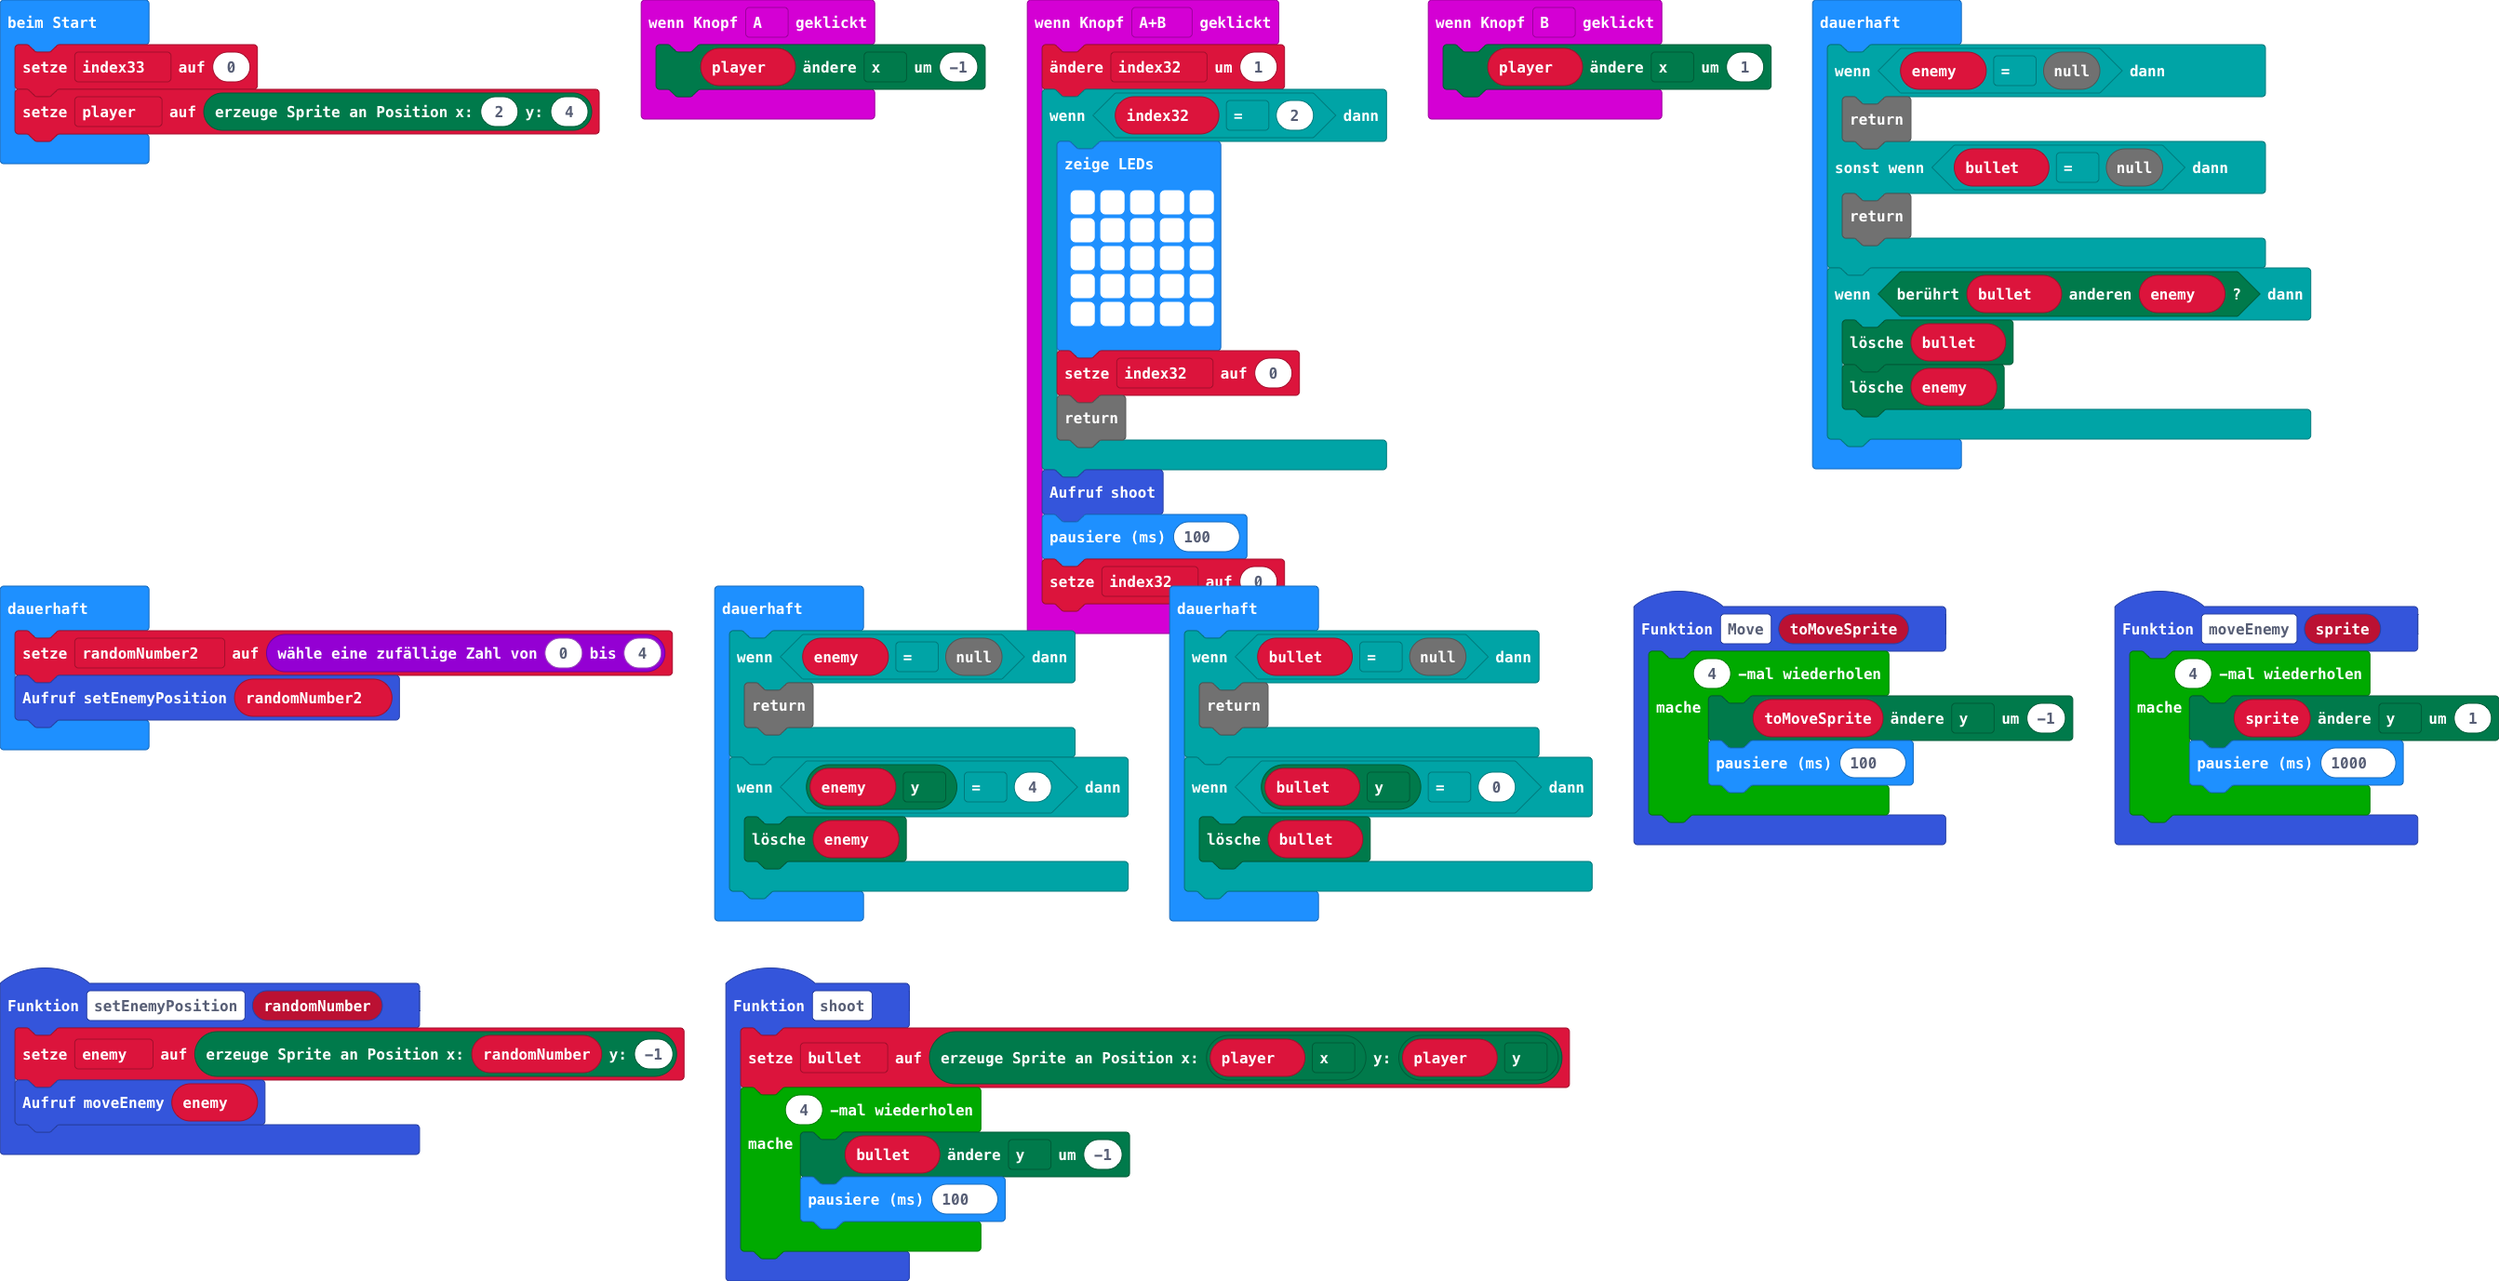
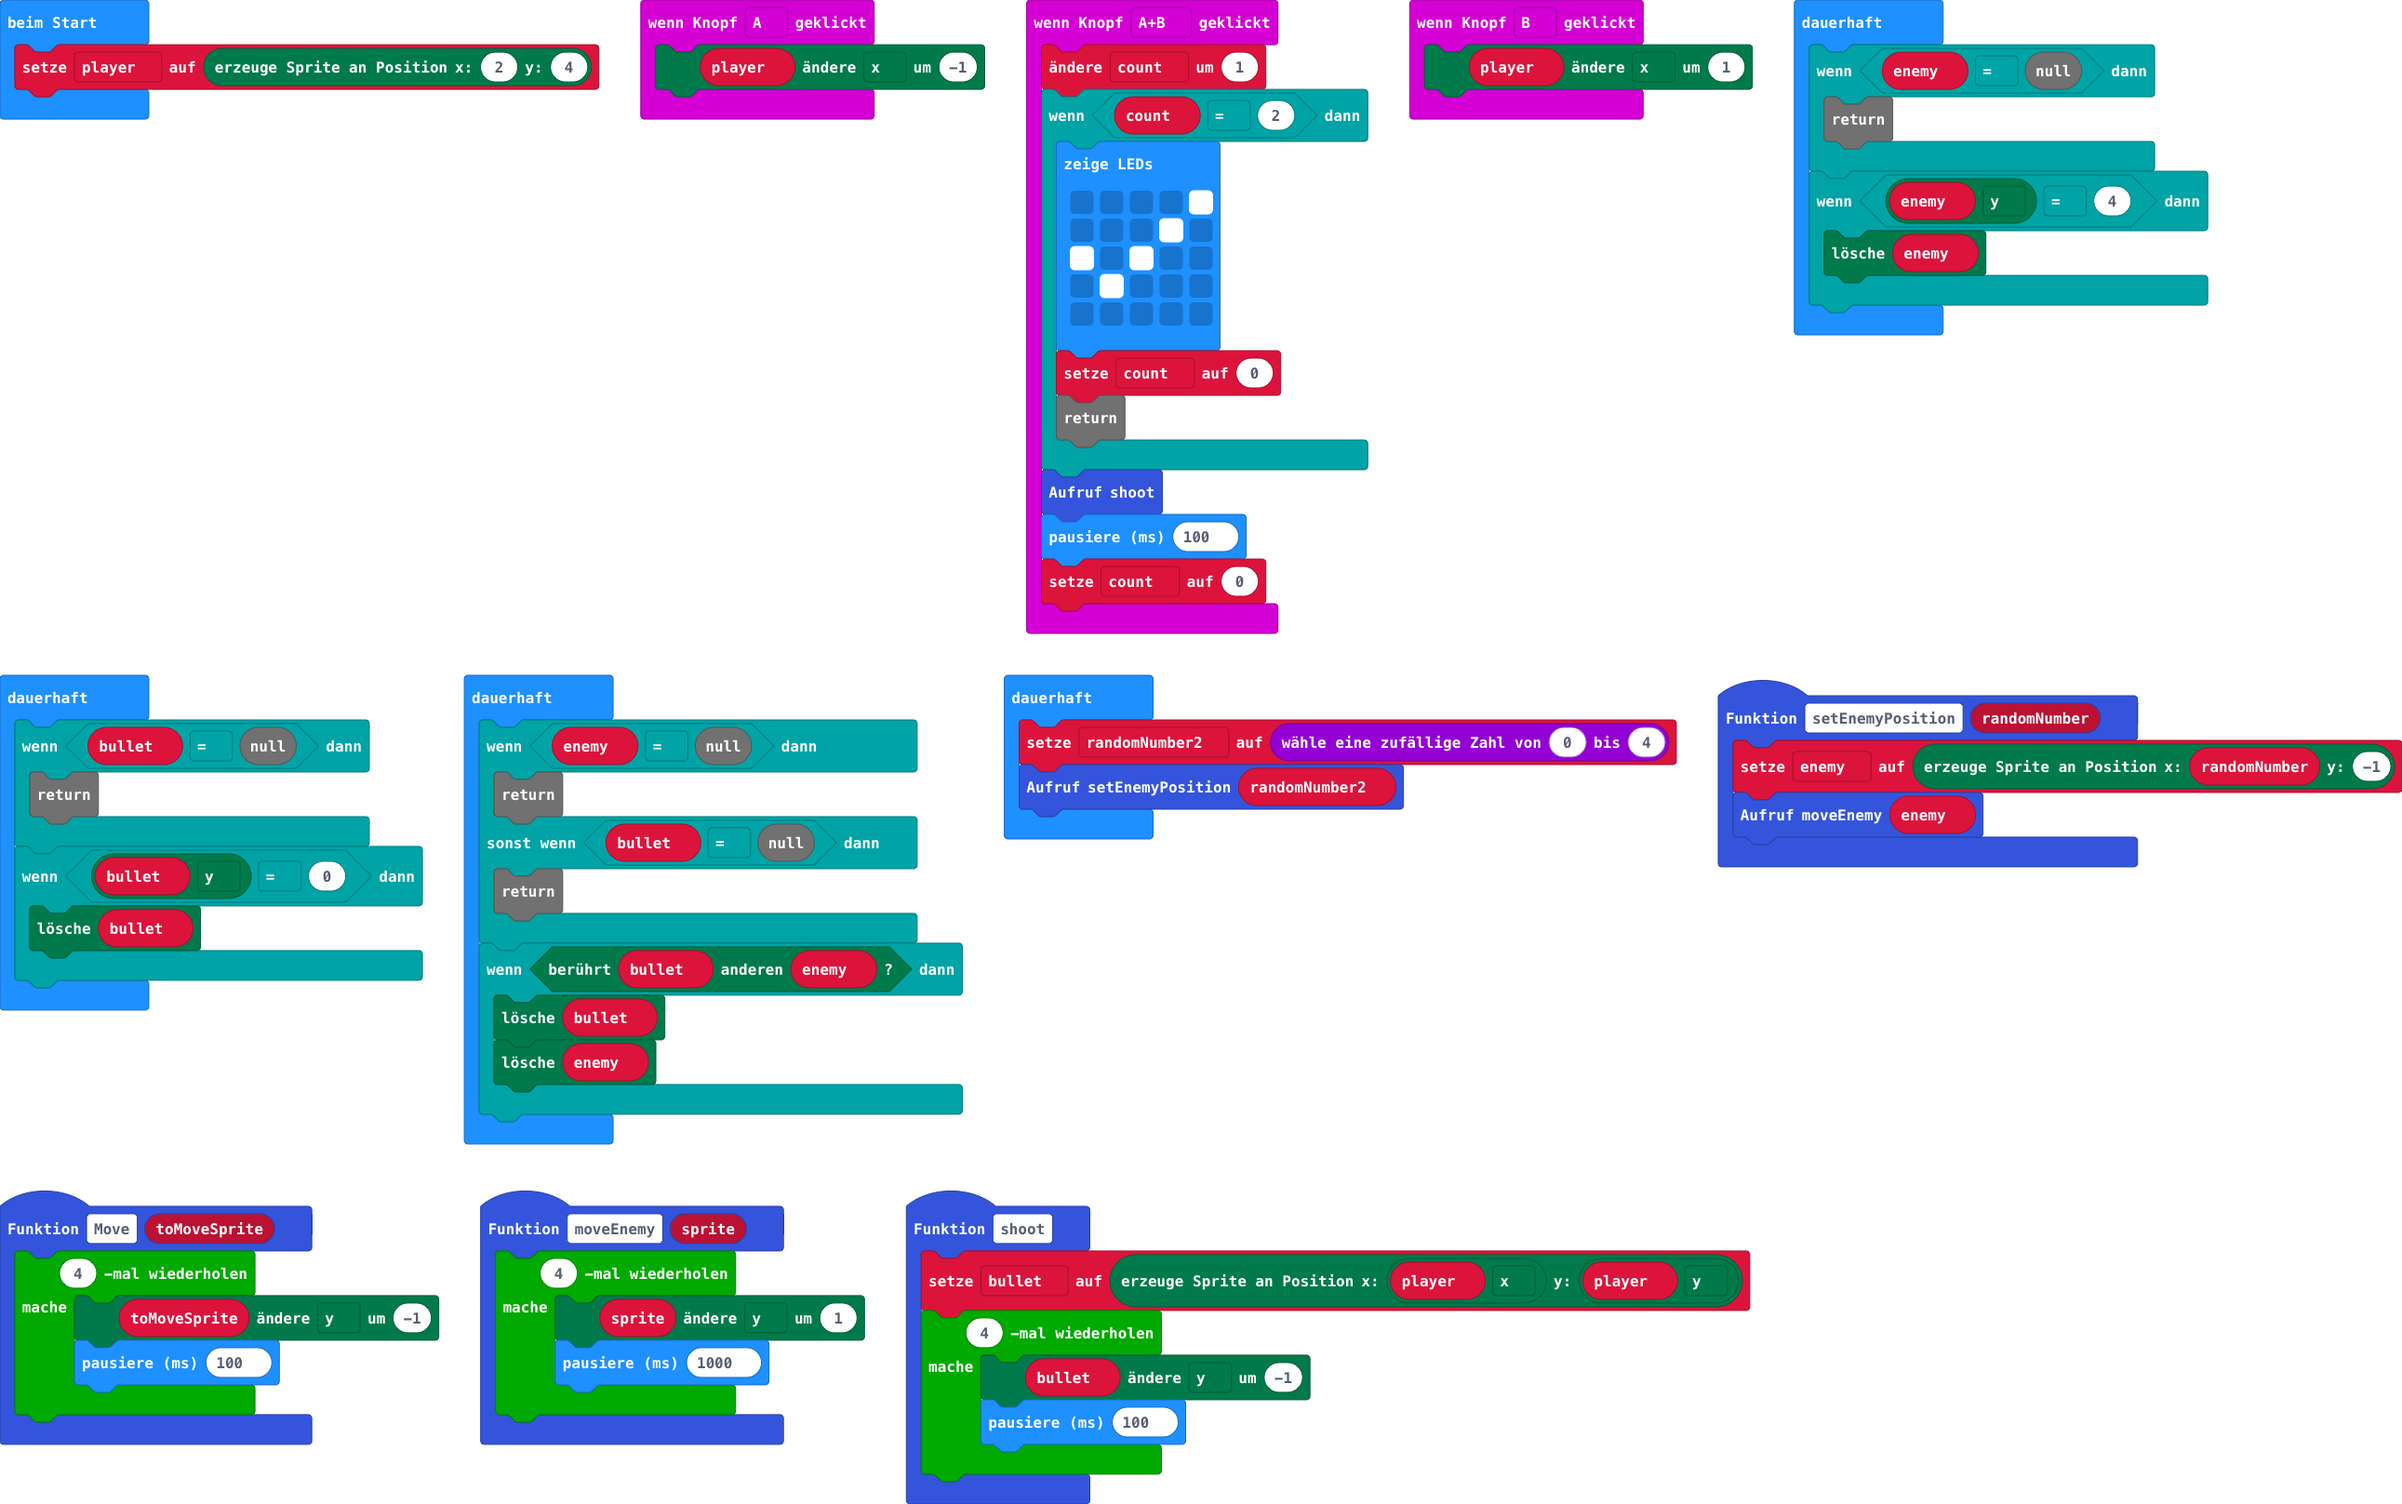
Aktualisiere main.blocks, main.ts

diff --git a/main.ts b/main.ts
@@ -15,21 +15,21 @@ function shoot () {
     }
 }
 input.onButtonPressed(Button.AB, function () {
-    index32 += 1
-    if (index32 == 2) {
+    count += 1
+    if (count == 2) {
         basic.showLeds(`
-            # # # # #
-            # # # # #
-            # # # # #
-            # # # # #
-            # # # # #
+            . . . . #
+            . . . # .
+            # . # . .
+            . # . . .
+            . . . . .
             `)
-        index32 = 0
+        count = 0
         return
     }
     shoot()
     basic.pause(100)
-    index32 = 0
+    count = 0
 })
 input.onButtonPressed(Button.B, function () {
     player.change(LedSpriteProperty.X, 1)
@@ -46,26 +46,10 @@ function setEnemyPosition (randomNumber: number) {
 }
 let randomNumber2 = 0
 let enemy: game.LedSprite = null
-let index32 = 0
+let count = 0
 let bullet: game.LedSprite = null
 let player: game.LedSprite = null
-let index33 = 0
 player = game.createSprite(2, 4)
-basic.forever(function () {
-    if (enemy == null) {
-        return
-    } else if (bullet == null) {
-        return
-    }
-    if (bullet.isTouching(enemy)) {
-        bullet.delete()
-        enemy.delete()
-    }
-})
-basic.forever(function () {
-    randomNumber2 = randint(0, 4)
-    setEnemyPosition(randomNumber2)
-})
 basic.forever(function () {
     if (enemy == null) {
         return
@@ -81,4 +65,19 @@ basic.forever(function () {
     if (bullet.get(LedSpriteProperty.Y) == 0) {
         bullet.delete()
     }
+})
+basic.forever(function () {
+    if (enemy == null) {
+        return
+    } else if (bullet == null) {
+        return
+    }
+    if (bullet.isTouching(enemy)) {
+        bullet.delete()
+        enemy.delete()
+    }
+})
+basic.forever(function () {
+    randomNumber2 = randint(0, 4)
+    setEnemyPosition(randomNumber2)
 })
